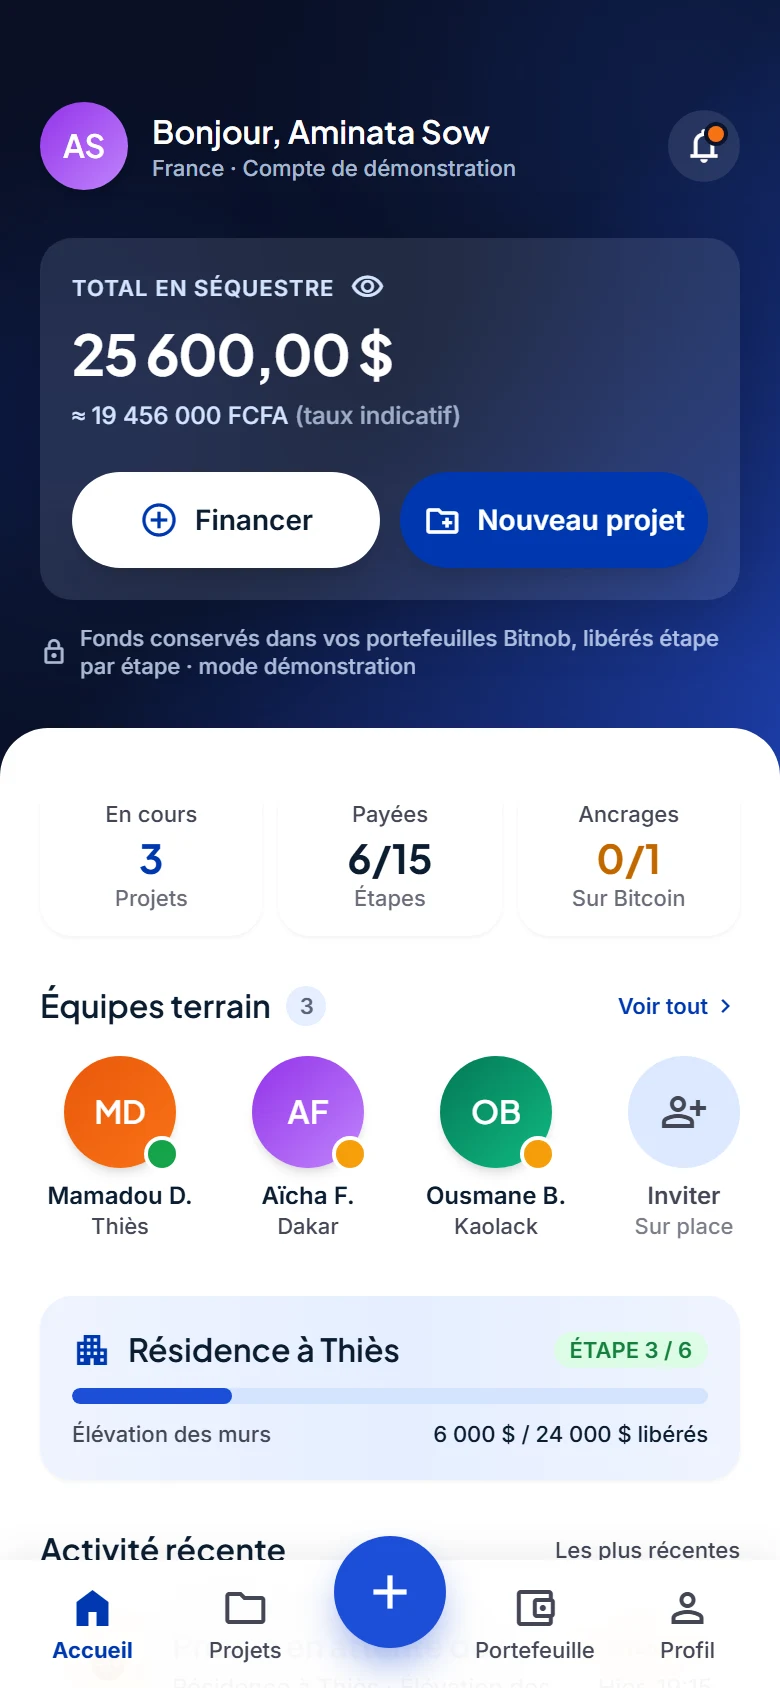
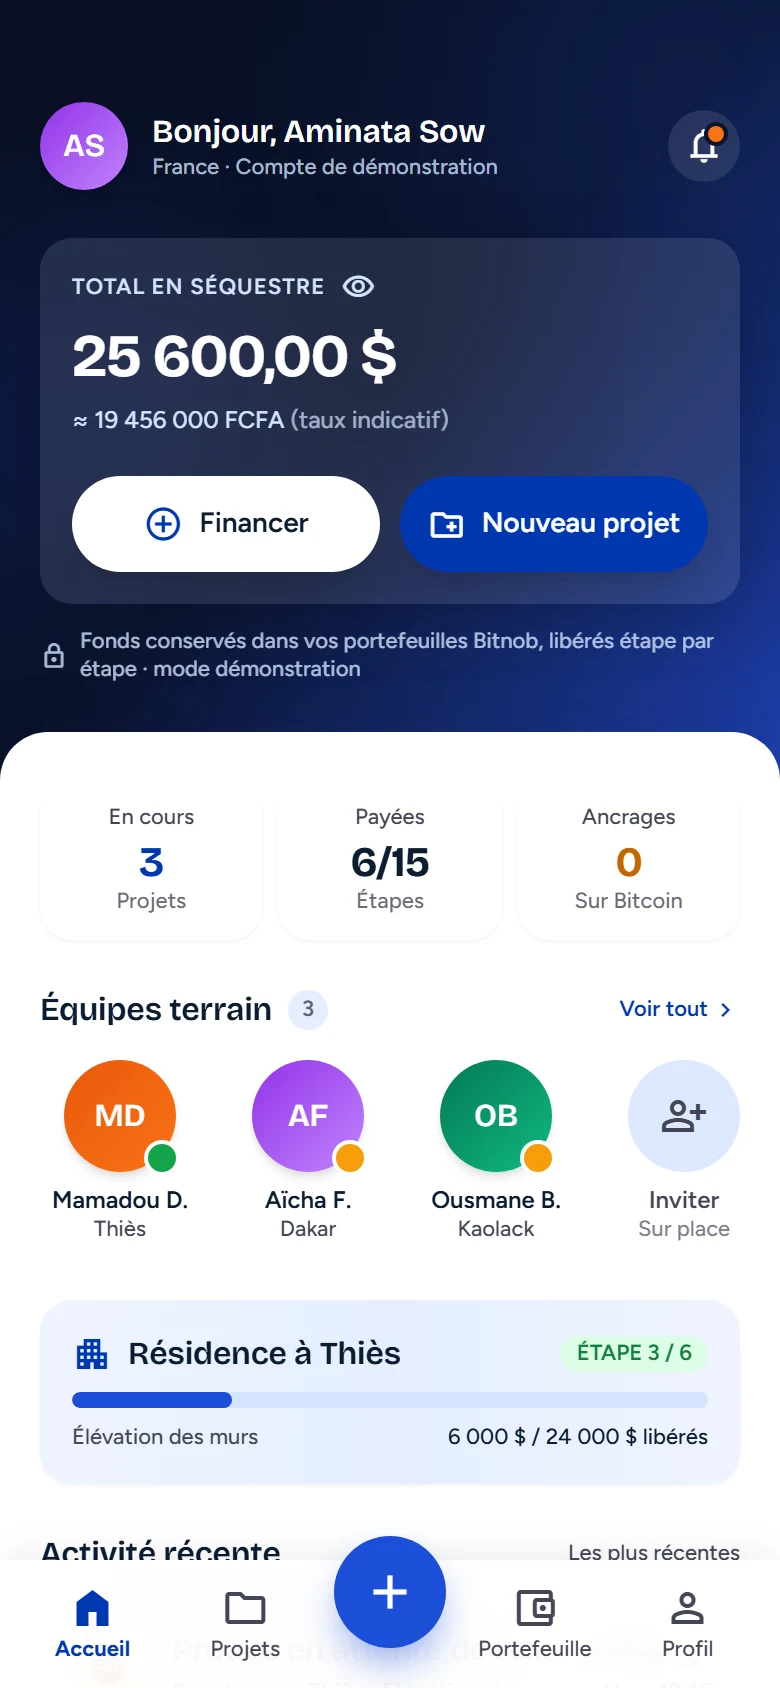
New typography: Bricolage Grotesque + Figtree, Instrument Serif italic accents; fix phone dashboard header

diff --git a/frontend/src/app/(site)/page.tsx b/frontend/src/app/(site)/page.tsx
@@ -89,7 +89,7 @@ export default function Landing() {
           <h1 data-nm-reveal="words">
             Investissez au pays.
             <br />
-            Avec preuve.
+            <em>Avec preuve.</em>
           </h1>
           <p className="hero-sub" data-nm-reveal="lines">
             L&apos;argent de la diaspora reste en séquestre. Il n&apos;est libéré qu&apos;étape par étape, sur preuve, directement au fournisseur.
@@ -115,7 +115,7 @@ export default function Landing() {
             <div className="why-copy">
               <div className="eyebrow">Le constat</div>
               <h2 id="constat" data-nm-reveal="words">
-                Un transfert déplace l&apos;argent. Il n&apos;en contrôle pas l&apos;usage.
+                Un transfert déplace l&apos;argent. <em>Il n&apos;en contrôle pas l&apos;usage.</em>
               </h2>
               <p data-nm-reveal="lines" data-nm-margin="10">
                 Une maison, un champ, une boutique : on finance à distance, sur la parole d&apos;un proche. NobPay remplace cette confiance aveugle par des preuves, étape après étape.
@@ -170,7 +170,7 @@ export default function Landing() {
               <div className="chip chip--dark">
                 Comment ça marche <i>⚡</i>
               </div>
-              <h2 data-nm-reveal="words">Financez, prouvez, libérez, vérifiez.</h2>
+              <h2 data-nm-reveal="words">Financez, prouvez, libérez, <em>vérifiez.</em></h2>
               <p data-nm-reveal="lines" data-nm-margin="10">
                 Quatre gestes, tous dans l&apos;application. Ces écrans sont ceux du prototype, avec des données de démonstration.
               </p>
@@ -250,7 +250,7 @@ export default function Landing() {
         <section className="wrap sectors" id="secteurs">
           <div className="section-head">
             <div className="eyebrow">Trois secteurs</div>
-            <h2 data-nm-reveal="words">Un même moteur pour vos projets au pays</h2>
+            <h2 data-nm-reveal="words">Un même moteur pour <em>vos projets au pays</em></h2>
             <p data-nm-reveal="lines" data-nm-margin="10">
               Chaque secteur a ses étapes types. Vous les ajustez, puis chaque paiement dépend d&apos;une preuve.
             </p>
@@ -287,7 +287,7 @@ export default function Landing() {
           <div className="wrap peek-grid">
             <div className="peek-copy">
               <div className="eyebrow">Côté financeur</div>
-              <h2 data-nm-reveal="words">Tout le projet, sur un écran.</h2>
+              <h2 data-nm-reveal="words">Tout le projet, <em>sur un écran.</em></h2>
               <p data-nm-reveal="lines" data-nm-margin="10">
                 Le séquestre, ce qui est libéré, l&apos;étape en cours, la preuve qui attend votre décision : rien n&apos;est caché derrière un relevé.
               </p>
@@ -321,7 +321,7 @@ export default function Landing() {
         <section className="wrap rails" id="rails">
           <div className="section-head">
             <div className="eyebrow">Sous le capot</div>
-            <h2 data-nm-reveal="words">Des rails ouverts, de bout en bout</h2>
+            <h2 data-nm-reveal="words">Des rails ouverts, <em>de bout en bout</em></h2>
             <p data-nm-reveal="lines" data-nm-margin="10">
               Lightning pour entrer, Bitnob pour garder et payer, Bitcoin pour prouver. Les secrets restent côté serveur, les états viennent de webhooks signés.
             </p>
@@ -346,7 +346,7 @@ export default function Landing() {
           <div className="verify-grid">
             <div>
               <div className="eyebrow">Verify, don&apos;t trust</div>
-              <h2 data-nm-reveal="words">Ne nous croyez pas. Vérifiez.</h2>
+              <h2 data-nm-reveal="words">Ne nous croyez pas. <em>Vérifiez.</em></h2>
               <p data-nm-reveal="lines" data-nm-margin="10">
                 Un dossier NobPay se contrôle sans compte et sans nous : votre navigateur recalcule l&apos;empreinte, relit tout le registre et interroge Bitcoin.
               </p>
@@ -390,7 +390,7 @@ export default function Landing() {
         {/* ============ FAQ ============ */}
         <section className="wrap faq" id="faq">
           <div className="section-head">
-            <h2 data-nm-reveal="words">Questions franches</h2>
+            <h2 data-nm-reveal="words">Questions <em>franches</em></h2>
           </div>
           <div className="faq-list">
             {FAQ.map((item) => (
@@ -423,7 +423,7 @@ export default function Landing() {
           <h2 data-nm-reveal="words">
             Investissez au pays.
             <br />
-            Avec preuve.
+            <em>Avec preuve.</em>
           </h2>
           <p data-nm-reveal="lines" data-nm-margin="10">
             Essayez le parcours complet : créer un projet, le financer, valider une preuve, puis vérifier le dossier.

diff --git a/frontend/tailwind.config.ts b/frontend/tailwind.config.ts
@@ -80,34 +80,35 @@ const config: Config = {
         'space-sm': '0.75rem',
       },
       fontFamily: {
-        'title-lg': ['"Plus Jakarta Sans Variable"', 'Plus Jakarta Sans', 'sans-serif'],
-        'title-md': ['"Plus Jakarta Sans Variable"', 'Plus Jakarta Sans', 'sans-serif'],
-        'headline-lg': ['"Plus Jakarta Sans Variable"', 'Plus Jakarta Sans', 'sans-serif'],
-        'headline-lg-mobile': ['"Plus Jakarta Sans Variable"', 'Plus Jakarta Sans', 'sans-serif'],
-        'headline-xl': ['"Plus Jakarta Sans Variable"', 'Plus Jakarta Sans', 'sans-serif'],
-        'headline-xl-mobile': ['"Plus Jakarta Sans Variable"', 'Plus Jakarta Sans', 'sans-serif'],
-        'headline-md': ['"Plus Jakarta Sans Variable"', 'Plus Jakarta Sans', 'sans-serif'],
-        'label-sm': ['"Inter Variable"', 'Inter', 'sans-serif'],
-        'label-md': ['"Inter Variable"', 'Inter', 'sans-serif'],
-        'label-lg': ['"Inter Variable"', 'Inter', 'sans-serif'],
-        'body-sm': ['"Inter Variable"', 'Inter', 'sans-serif'],
-        'body-md': ['"Inter Variable"', 'Inter', 'sans-serif'],
-        'body-lg': ['"Inter Variable"', 'Inter', 'sans-serif'],
+        accent: ['"Instrument Serif"', 'Georgia', 'serif'],
+        'title-lg': ['"Bricolage Grotesque Variable"', 'Figtree Variable', 'system-ui', 'sans-serif'],
+        'title-md': ['"Bricolage Grotesque Variable"', 'Figtree Variable', 'system-ui', 'sans-serif'],
+        'headline-lg': ['"Bricolage Grotesque Variable"', 'Figtree Variable', 'system-ui', 'sans-serif'],
+        'headline-lg-mobile': ['"Bricolage Grotesque Variable"', 'Figtree Variable', 'system-ui', 'sans-serif'],
+        'headline-xl': ['"Bricolage Grotesque Variable"', 'Figtree Variable', 'system-ui', 'sans-serif'],
+        'headline-xl-mobile': ['"Bricolage Grotesque Variable"', 'Figtree Variable', 'system-ui', 'sans-serif'],
+        'headline-md': ['"Bricolage Grotesque Variable"', 'Figtree Variable', 'system-ui', 'sans-serif'],
+        'label-sm': ['"Figtree Variable"', 'system-ui', 'sans-serif'],
+        'label-md': ['"Figtree Variable"', 'system-ui', 'sans-serif'],
+        'label-lg': ['"Figtree Variable"', 'system-ui', 'sans-serif'],
+        'body-sm': ['"Figtree Variable"', 'system-ui', 'sans-serif'],
+        'body-md': ['"Figtree Variable"', 'system-ui', 'sans-serif'],
+        'body-lg': ['"Figtree Variable"', 'system-ui', 'sans-serif'],
       },
       fontSize: {
-        'title-lg': ['18px', { lineHeight: '24px', fontWeight: '600' }],
+        'title-lg': ['19px', { lineHeight: '24px', fontWeight: '600', letterSpacing: '-0.01em' }],
         'label-sm': ['11px', { lineHeight: '14px', fontWeight: '500' }],
         'label-md': ['12px', { lineHeight: '16px', fontWeight: '600' }],
-        'title-md': ['16px', { lineHeight: '22px', fontWeight: '600' }],
-        'body-md': ['14px', { lineHeight: '20px', fontWeight: '400' }],
-        'headline-lg': ['28px', { lineHeight: '36px', fontWeight: '700' }],
-        'headline-lg-mobile': ['22px', { lineHeight: '28px', fontWeight: '700' }],
-        'headline-xl': ['36px', { lineHeight: '44px', fontWeight: '800' }],
+        'title-md': ['16px', { lineHeight: '22px', fontWeight: '600', letterSpacing: '-0.005em' }],
+        'body-md': ['14.5px', { lineHeight: '21px', fontWeight: '400' }],
+        'headline-lg': ['30px', { lineHeight: '36px', fontWeight: '650', letterSpacing: '-0.02em' }],
+        'headline-lg-mobile': ['24px', { lineHeight: '29px', fontWeight: '650', letterSpacing: '-0.02em' }],
+        'headline-xl': ['40px', { lineHeight: '46px', fontWeight: '700', letterSpacing: '-0.025em' }],
         'label-lg': ['14px', { lineHeight: '20px', fontWeight: '600' }],
-        'headline-xl-mobile': ['28px', { lineHeight: '34px', fontWeight: '800' }],
-        'body-lg': ['16px', { lineHeight: '24px', fontWeight: '400' }],
+        'headline-xl-mobile': ['30px', { lineHeight: '36px', fontWeight: '700', letterSpacing: '-0.025em' }],
+        'body-lg': ['16.5px', { lineHeight: '24px', fontWeight: '400' }],
         'body-sm': ['12px', { lineHeight: '16px', fontWeight: '400' }],
-        'headline-md': ['20px', { lineHeight: '26px', fontWeight: '700' }],
+        'headline-md': ['21px', { lineHeight: '26px', fontWeight: '650', letterSpacing: '-0.015em' }],
       },
     },
   },

diff --git a/frontend/src/app/(site)/site.css b/frontend/src/app/(site)/site.css
@@ -20,7 +20,10 @@ html:has(.site) {
   --grey: #566177;
   --line: #e3e9f6;
   --paper: #f8f9ff;
-  font-family: 'Inter Variable', Inter, system-ui, sans-serif;
+  --font-display: 'Bricolage Grotesque Variable', 'Figtree Variable', system-ui, sans-serif;
+  --font-body: 'Figtree Variable', system-ui, sans-serif;
+  --font-serif: 'Instrument Serif', Georgia, 'Times New Roman', serif;
+  font-family: var(--font-body);
   color: var(--dark);
   background: #fff;
   line-height: 1.45;
@@ -29,13 +32,30 @@ html:has(.site) {
 .site h1,
 .site h2,
 .site h3 {
-  font-family: 'Plus Jakarta Sans Variable', 'Plus Jakarta Sans', 'Inter Variable', sans-serif;
-  font-weight: 400;
-  letter-spacing: -0.035em;
+  font-family: var(--font-display);
+  font-weight: 480;
+  font-stretch: 100%;
+  letter-spacing: -0.022em;
   margin: 0;
-  line-height: 1.04;
+  line-height: 1.06;
   color: var(--navy);
   text-wrap: balance;
+}
+.site h1 em,
+.site h2 em,
+.site h3 em {
+  font-family: var(--font-serif);
+  font-style: italic;
+  font-weight: 400;
+  font-stretch: 100%;
+  font-size: 1.08em;
+  letter-spacing: -0.01em;
+  color: var(--blue);
+  padding-right: 0.04em;
+}
+.how h2 em,
+.final h2 em {
+  color: #cfe0ff;
 }
 .site p {
   margin: 0;
@@ -53,7 +73,7 @@ html:has(.site) {
 }
 .site .eyebrow {
   display: inline-block;
-  font: 600 1.3rem 'Inter Variable', sans-serif;
+  font: 600 1.3rem var(--font-body);
   letter-spacing: 0.14em;
   text-transform: uppercase;
   color: var(--blue);
@@ -100,7 +120,8 @@ html:has(.site) {
   padding: 1.5rem 2.8rem;
   border-radius: 99px;
   font-size: 1.7rem;
-  font-weight: 500;
+  font-weight: 600;
+  letter-spacing: -0.005em;
   text-decoration: none;
   box-shadow: 0 1rem 2.4rem rgba(29, 78, 216, 0.3);
 }
@@ -150,7 +171,7 @@ html:has(.site) {
   display: inline-flex;
   align-items: center;
   gap: 0.7rem;
-  font: 600 2.3rem 'Plus Jakarta Sans Variable', sans-serif;
+  font: 600 2.3rem var(--font-display);
   letter-spacing: -0.04em;
   text-decoration: none;
 }
@@ -271,7 +292,7 @@ html:has(.site) {
   border-radius: 99px;
   background: #fff;
   color: var(--navy);
-  font: 700 22cqw 'Inter Variable', sans-serif;
+  font: 700 22cqw var(--font-body);
   box-shadow: 0 0.4rem 1rem rgba(8, 24, 120, 0.25);
 }
 .hero-text {
@@ -285,8 +306,9 @@ html:has(.site) {
   justify-items: center;
 }
 .hero h1 {
-  font-size: clamp(3.4rem, 6.2rem, 9rem);
-  font-weight: 450;
+  font-size: clamp(3.4rem, 6.4rem, 9rem);
+  font-weight: 500;
+  letter-spacing: -0.028em;
   color: var(--navy);
 }
 .site .hero-sub {
@@ -338,8 +360,9 @@ html:has(.site) {
   border-bottom: 1px solid var(--line);
 }
 .stat dt strong {
-  font: 500 7.6rem/1 'Plus Jakarta Sans Variable', sans-serif;
-  letter-spacing: -0.045em;
+  font: 500 7.6rem/1 var(--font-display);
+  font-stretch: 96%;
+  letter-spacing: -0.035em;
   color: var(--blue-deep);
 }
 .stat dt strong small {
@@ -406,7 +429,7 @@ html:has(.site) {
   outline-offset: 4px;
 }
 .tab .nm-tab-title {
-  font: 500 2.8rem 'Plus Jakarta Sans Variable', sans-serif;
+  font: 500 2.8rem var(--font-display);
   letter-spacing: -0.03em;
   margin-bottom: 1rem;
   display: flex;
@@ -414,7 +437,7 @@ html:has(.site) {
   gap: 1.4rem;
 }
 .tab .nm-tab-title span {
-  font: 600 1.3rem 'Inter Variable', sans-serif;
+  font: 600 1.3rem var(--font-body);
   letter-spacing: 0.1em;
   opacity: 0.7;
 }
@@ -717,7 +740,7 @@ html:has(.site) {
 }
 .rail-tag {
   display: block;
-  font: 600 1.15rem 'Inter Variable', sans-serif;
+  font: 600 1.15rem var(--font-body);
   letter-spacing: 0.14em;
   text-transform: uppercase;
   color: var(--grey);
@@ -843,7 +866,7 @@ html:has(.site) {
   cursor: pointer;
   list-style: none;
   padding: 2.4rem 0;
-  font: 500 2rem 'Plus Jakarta Sans Variable', sans-serif;
+  font: 500 2rem var(--font-display);
   letter-spacing: -0.02em;
   display: flex;
   justify-content: space-between;

diff --git a/frontend/src/app/app/(shell)/(tabs)/accueil/page.tsx b/frontend/src/app/app/(shell)/(tabs)/accueil/page.tsx
@@ -1,6 +1,6 @@
 import Link from 'next/link';
 import { ActivityList } from '@/components/app/ActivityList';
-import { AppHeader } from '@/components/app/AppHeader';
+import { DesktopTopbar } from '@/components/app/DesktopTopbar';
 import { BalanceCard } from '@/components/app/BalanceCard';
 import { InstallCard } from '@/components/app/InstallCard';
 import { ProjectCardWide } from '@/components/app/ProjectCardWide';
@@ -34,7 +34,7 @@ export default async function Home() {
 
   return (
     <>
-      <AppHeader title="Accueil" user={user} />
+      <DesktopTopbar title="Accueil" />
 
       {/* ---------- phone ---------- */}
       <main className="pb-24 lg:hidden">
@@ -157,7 +157,7 @@ export default async function Home() {
               <div className="flex items-center gap-3">
                 <Avatar first={user.firstName} last={user.lastName} size="lg" />
                 <div>
-                  <p className="font-headline-lg text-headline-lg tracking-tight">Bonjour, {user.firstName}</p>
+                  <p className="font-headline-lg text-headline-lg tracking-tight">Bonjour, <span className="font-accent text-[1.15em] font-normal italic tracking-normal text-[#b7c4ff]">{user.firstName}</span></p>
                   <p className="font-body-md text-body-md text-surface-variant/80">
                     {country} · {user.demo ? 'Compte de démonstration' : 'Diaspora'}
                   </p>

diff --git a/frontend/public/offline.html b/frontend/public/offline.html
@@ -7,7 +7,7 @@
 <title>Hors connexion · NobPay</title>
 <style>
   *{box-sizing:border-box}
-  body{margin:0;min-height:100vh;display:flex;align-items:center;justify-content:center;padding:24px;font-family:Inter,system-ui,-apple-system,"Segoe UI",sans-serif;color:#0b1c30;background:linear-gradient(135deg,#0a0f24,#0b132b 55%,#1e40af)}
+  body{margin:0;min-height:100vh;display:flex;align-items:center;justify-content:center;padding:24px;font-family:"Figtree Variable",Figtree,system-ui,-apple-system,"Segoe UI",sans-serif;color:#0b1c30;background:linear-gradient(135deg,#0a0f24,#0b132b 55%,#1e40af)}
   main{max-width:420px;text-align:center;background:#fff;border-radius:28px;padding:32px 24px;box-shadow:0 24px 60px rgba(0,0,0,.35)}
   svg{width:56px;height:56px;color:#1d4ed8}
   h1{margin:14px 0 8px;font-size:22px}

diff --git a/frontend/src/components/site/Coin.tsx b/frontend/src/components/site/Coin.tsx
@@ -118,7 +118,7 @@ export const SymbolDollar = (
   <g fill="none" stroke="currentColor" strokeWidth="7" strokeLinecap="round">
     <path d="M -58 -34 A 66 66 0 0 0 -58 34" opacity="0.9" />
     <path d="M 58 -34 A 66 66 0 0 1 58 34" opacity="0.9" />
-    <text x="0" y="4" textAnchor="middle" dominantBaseline="central" fontFamily="'Plus Jakarta Sans Variable', 'Plus Jakarta Sans', sans-serif" fontWeight="700" fontSize="104" fill="currentColor" stroke="none">
+    <text x="0" y="4" textAnchor="middle" dominantBaseline="central" fontFamily="'Bricolage Grotesque Variable', 'Figtree Variable', sans-serif" fontWeight="700" fontSize="104" fill="currentColor" stroke="none">
       $
     </text>
   </g>

diff --git a/frontend/src/app/app/(auth)/bienvenue/page.tsx b/frontend/src/app/app/(auth)/bienvenue/page.tsx
@@ -61,7 +61,7 @@ export default async function Welcome() {
           <h2 className="font-headline-xl-mobile text-headline-xl-mobile tracking-tight text-on-surface">
             Investissez au pays.
             <br />
-            <span className="text-primary-container">Avec preuve.</span>
+            <span className="font-accent text-[1.14em] font-normal italic tracking-normal text-primary-container">Avec preuve.</span>
           </h2>
           <p className="mx-auto max-w-sm font-body-md text-body-md leading-relaxed text-on-surface-variant">
             Financez vos projets immobiliers, agricoles et commerciaux au pays. Vos fonds restent en séquestre et ne sont libérés que sur preuve.

diff --git a/frontend/src/app/layout.tsx b/frontend/src/app/layout.tsx
@@ -1,6 +1,7 @@
 import type { Metadata, Viewport } from 'next';
-import '@fontsource-variable/inter/index.css';
-import '@fontsource-variable/plus-jakarta-sans/index.css';
+import '@fontsource-variable/bricolage-grotesque/standard.css';
+import '@fontsource-variable/figtree/index.css';
+import '@fontsource/instrument-serif/latin-400-italic.css';
 import '@fontsource-variable/material-symbols-outlined/fill.css';
 import '../../motion/nobpay-motion.css';
 import './globals.css';

diff --git a/frontend/src/lib/money.ts b/frontend/src/lib/money.ts
@@ -2,7 +2,7 @@
 
 const NBSP = ' ';
 
-// fr-FR groups digits with a narrow no-break space (U+202F). The app fonts (Inter, Plus Jakarta Sans)
+// fr-FR groups digits with a narrow no-break space (U+202F). The app fonts (Figtree, Bricolage Grotesque)
 // have no glyph for it, so large amounts would render glued together: use a plain no-break space instead.
 const groups = (s: string) => s.replace(/ /g, NBSP);
 

diff --git a/README.md b/README.md
@@ -129,4 +129,4 @@ frontend/
 
 ## Crédits
 
-Code et illustrations CSS originaux. Bibliothèques : Next.js, React, Tailwind CSS, [Lenis](https://github.com/darkroomengineering/lenis) (MIT), qrcode.react (ISC). Polices Inter et Plus Jakarta Sans, icônes Material Symbols (licences libres, via Fontsource). Photos de couverture (immobilier, agricole, commerce) : images fournies par l'équipe ; photos de preuve de démonstration : images d'illustration. Le kit d'animations reprend des durées et des courbes mesurées sur un site public, sans en copier le code ni les ressources.
+Code et illustrations CSS originaux. Bibliothèques : Next.js, React, Tailwind CSS, [Lenis](https://github.com/darkroomengineering/lenis) (MIT), qrcode.react (ISC). Polices Bricolage Grotesque, Figtree et Instrument Serif (accents en italique), icônes Material Symbols (licences libres, via Fontsource). Photos de couverture (immobilier, agricole, commerce) : images fournies par l'équipe ; photos de preuve de démonstration : images d'illustration. Le kit d'animations reprend des durées et des courbes mesurées sur un site public, sans en copier le code ni les ressources.
